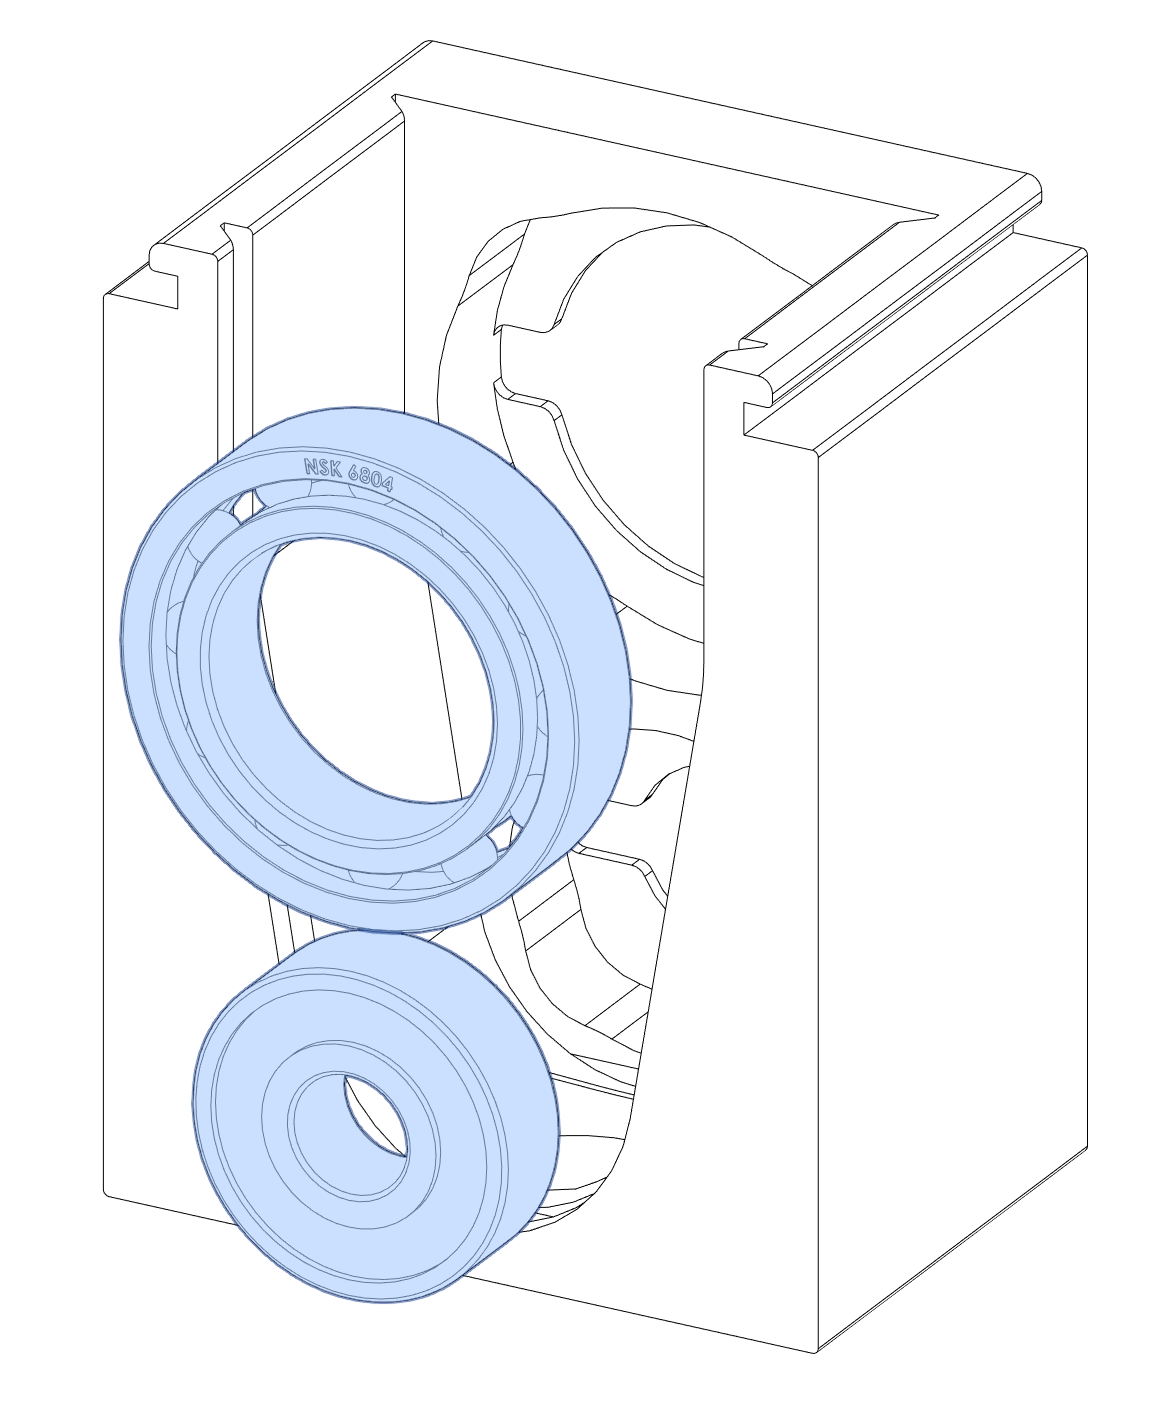
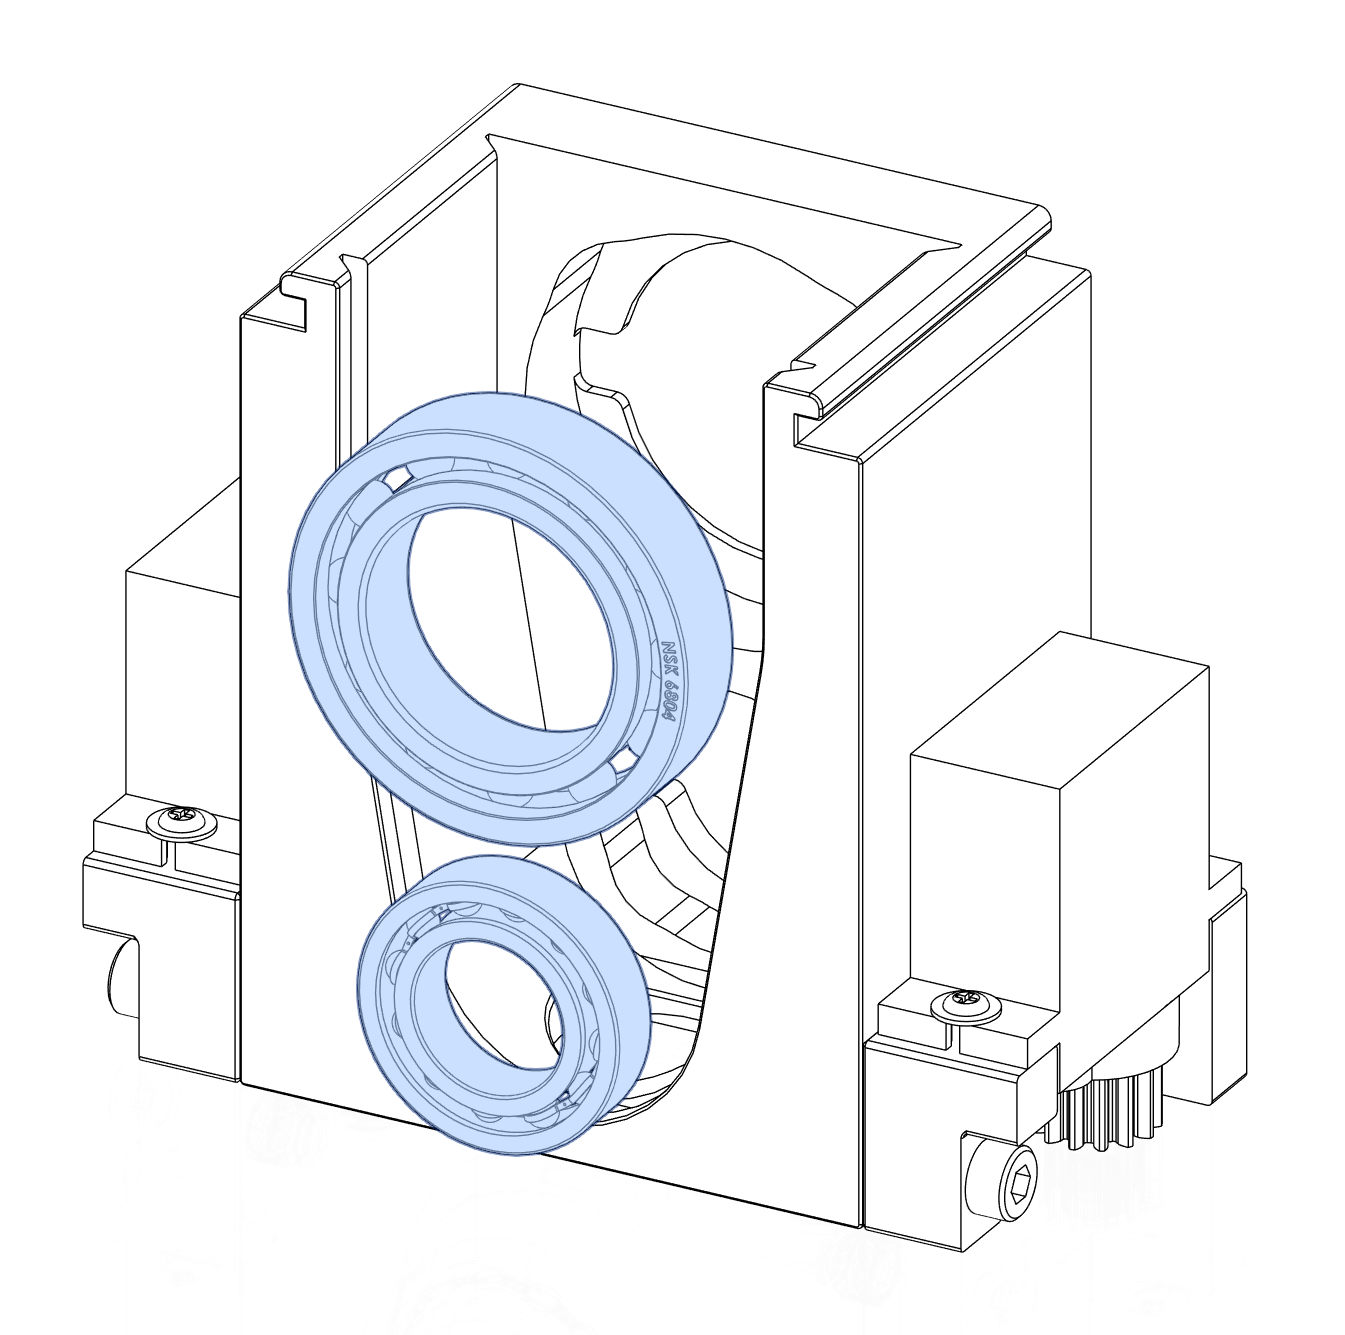
Progress update for manual

diff --git a/STL/OpenTrickler/README.md b/STL/OpenTrickler/README.md
@@ -138,15 +138,13 @@ Press 6804 bearing to the top bearing pocket and 608 to the bottom bearing pocke
 
 ![open_trickler_front_body_install_bearings.png](resources/open_trickler_front_body_install_bearings.png)
 
-For the next step, you have three options
+Slide the [FrontVolumeReductionInsert_Top.stl](VolumeReducer/FrontVolumeReductionInsert_Top.stl) to the first cut out next to the bearing from the top, serving as the bearing cover. Ensure the part is sitting flush with the top surface. 
 
-1. [bearing_cover_x2.stl](bearing_cover_x2.stl): Slide the bearing cover to the rear cut out. The cover should sit flush with the top of the rear body, while two bearings are still free to rotate without resistance.If you can feel the abnormal resistance after installing the bearing cover, press the bearings inwards for additional 0.1mm to clear the interference.
-    ![open_trickler_front_body_install_bearing_cover](resources/open_trickler_front_body_install_bearing_cover.png)
+![open_trickler_front_body_install_front_volume_reduction_insert_top.png](resources/open_trickler_front_body_install_front_volume_reduction_insert_top.png)
 
-2. [bearing_cover_tighter_tolerance_x2.stl](Optional/bearing_cover_tighter_tolerance_x2.stl): The procedure is identical to option 1 but with the bearing cover with slightly tigher tolerance.
+Push the [FrontVolumeReductionInsert_Bottom.stl](VolumeReducer/FrontVolumeReductionInsert_Bottom.stl) from the front opening against the bearing cover. 
 
-3. [VolumnReducer](Optional/VolumnReducer): Slide the front volumn reducer assembly to the rear cut out. The cover should sit flush with the top of the front body, while two bearings are still free to rotate without resistance.
-    ![open_trickler_front_body_install_volumn_reducer](resources/open_trickler_front_body_install_volumn_reducer.png)
+![open_trickler_front_body_install_front_volume_reduction_insert_bottom.png](resources/open_trickler_front_body_install_front_volume_reduction_insert_bottom.png)
 
 Slide the [front_rear_door_x2.stl](front_rear_door_x2.stl) to the cut out, the front door should sit flush with the top of the [front_body.stl](front_body.stl).
 
@@ -156,31 +154,88 @@ Slide the [front_body_cover.stl](front_body_cover.stl) to the groove top of the 
 
 ![open_trickler_front_body_install_front_body_cover](resources/open_trickler_front_body_install_front_body_cover.png)
 
+### Servo Gate Tuning Guide
+
+#### Connect Servo Motors to the Controller Board
+
+* For Pico Motor Expansion Board v1 + PWM Expansion Board, you need to connect the left servo motor (from the front perspective) to J1, and the right servo motor to J2.
+
+* For Pico Motor Expansion Board v2, you need to connect the left servo motor (from the front perspective) to J6, and the right servo motor to J7.
+
+#### Servo Motor Control Basics
+
+The TowerPro MG90s uses PWM duty cycle to accept external command for position control. The period of the "on" cycle determines the absolute position shown in the table below. Intermediate positions between -90 to 90 degrees are linearly interpolated with respect to the duration of the "on" period.
+
+![pwm_servo_control](resources/pwm_servo_control.png)
+
+The OpenTrickler uses the duty cycle (the ratio of the time between on and off per cycle) as the input to control the opening and closing of the servo gate.
+
+| Period | Absolute Position | Duty Cycle (period/20ms) |
+| ------ | ----------------- | ------------------------ |
+| 1 ms   | -90 degree        | 0.050                    |
+| 1.5 ms | 0 degree          | 0.075                    |
+| 2 ms   | 90 degree         | 0.100                    |
+
+The servo gate opening and closing duty cycle need to be tuned before the final assembly. Please follow the [initialization guide](https://github.com/eamars/OpenTrickler/blob/main/Manual/initialization_guide.md) to bring up the wireless controller. The following steps assumes the WebUI is functional. 
+
+#### Enable Servo Gate
+
+The servo gate is disabled by default. You need to navigate to the WebUI -> Settings -> Servo Gate, toggle the "Servo Gate Enable" option from No to Yes, then hit the Apply button with "Save to EEPROM" option. Then restart the OpenTrickler controller by pressing the reset button, or reset from the web interface. 
+
+![enable_servo_gate](resources/enable_servo_gate.png)
+
+#### Tune the Shutters
+
+The left shutter is assigned to Shutter 0. By default the shutter is operating at a very limited range. You need to follow the below steps. 
+
+1. Flip the front body up-side-down. 
+
+2. Set the shutter 0 close duty cycle to 0.1, then apply the settings. 
+
+3. Navigate to the Trickler page, click the Gate Close button. Wait for the servo motor to change position.
+
+4. Place the left shutter to the bottom cut out at the closed position (demonstrated below). Make sure the left shutter engages with the spur gear. If not, adjust the shutter 0 close duty cycle up a bit (around 0.005) from the settings and click the Gate Close button again. 
+   ![place_left_shutter](resources/place_left_shutter.png)
+
+5. Click Gate Open Button, wait for the servo motor to change position. 
+
+6. The shutter is now moved to the open position. If the shutter is not fully closed, you need to adjust the shutter 0 open duty cycle up, then click the Gate Open Button. This process may need to be repeated multiple times until the full open duty cycle is termined by experiment. 
+
+7. Repeat above procedures with the shutter 1. Note the shutter 1 is operating at the opposite position, where the open and close duty cycle is roughly opposite to the shutter 0. 
+
+8. **(Important)** make sure the settings are saved in the end, by "Save to EEPROM". 
+
+Once the shutter open and close angles are tuned, you can continue with the full body assembly. 
+
 ## Assembly of Open Trickler Front and Rear Body
 
-![open_trickler_body_overview.png](resources/open_trickler_body_overview.png)
+Note: this step requires the top assembly from one of the scale shield. The manual will use the top assembly from A&D FX Shield as an example. 
 
 ### Assembly
+
+Mount the rear body assembly to the scale shield with fasterners. 
 
 Insert both [large_rotary_tube.stl](large_rotary_tube.stl) and [small_rotary_tube.stl](small_rotary_tube.stl) through the rear bearing. You may experience some resistance subject to the 
 tolerance of the printed part. 
 
-
+*Note: the alternative part [small_rotary_tube_flow_through.stl](small_rotary_tube_flow_through.stl) can be used with the high flow application.*
 
 ![open_trickler_body_install_rotary_tubes.png](resources/open_trickler_body_install_rotary_tubes.png)
 
-Slide the motor towards rotary tubes to the nearest position. Once done, slide the belt onto rotary tubes and pulleys. Make
+Slide the pully assembly towards rotary tubes to the nearest position. Once done, slide the belt onto rotary tubes and pulleys. Make
 sure the longer belt is connected to the motor on the right side. **Do not tension the belt, nor adjust the depth of the pulley for now.**
 
 ![open_trickler_body_install_belt.png](resources/open_trickler_body_install_belt.png)
 
-Slide the front body over the rotary tubes through bearings. You need to push the front body all the way in. 
+Slide the front body assembly over the rotary tubes through bearings. The front body assembly need to be pushed all the way to align with four mounting holes, then fix the front body assembly with the scale lid using fasterners. 
+
+*Note: You may need to flip the full assembly up-side-down to ensure the servo gate doesn't accidently move or shift when sliding the front body over the bearings.*
 
 ![open_trickler_connect_front_body.png](resources/open_trickler_connect_front_body.png)
 
-The OpenTrickler is now assembled. In the later steps the OpenTrickler will be mounted to one of the scale adapter for final assembly.
+Slide the [Powder Hopper](../Powder Hopper/) to the rear body, then the OpenTrickler is fully assembled. 
 
-
+![open_trickler_install_powder_hopper.png](resources/open_trickler_install_powder_hopper.png)
 
 ## Post Installation Adjustments
 
@@ -194,8 +249,8 @@ Look through the unit from the left and right side, push or pull the pulley on t
 
 ### Tension The Belt
 
-You need to adjust the tension of the belt. First loosen 8x M3x8 BHCS used to secure stepper motors. 
-Then pull motors slightly to tension the belts. Once done, tighten all 8 screws. 
+You need to adjust the tension of the belt. First loosen 4x M3x8 BHCS used to secure stepper motors. 
+Then pull motors slightly to tension the belts. Once done, tighten all 4 screws. Repeat the process for both larger and small rotary tube motors.
 
 ![belt_tensioning.png](resources/belt_tensioning.png)
 
